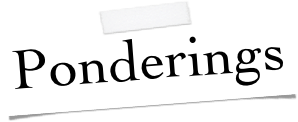
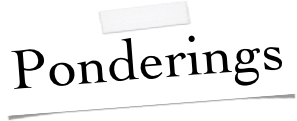
Made Blog Page Wider to accommodate coffee pic
12/1 10:11pm

Changed region(s): [[0.0303, 0.2975, 0.9697, 0.7438], [0.0, 0.7686, 1.0, 0.9917], [0.6364, 0.2975, 0.6667, 0.3719]]

diff --git a/Online/Blog/Blog.html b/Online/Blog/Blog.html
@@ -8,7 +8,7 @@
     <meta name="Generator" content="iWeb 3.0.4" />
     <meta name="iWeb-Build" content="local-build-20151201" />
     <meta http-equiv="X-UA-Compatible" content="IE=EmulateIE7" />
-    <meta name="viewport" content="width=700" />
+    <meta name="viewport" content="width=1318" />
     <title>Ponderings</title>
     <link rel="stylesheet" type="text/css" media="screen,print" href="Blog_files/Blog.css" />
     <!--[if lt IE 8]><link rel='stylesheet' type='text/css' media='screen,print' href='Blog_files/BlogIE.css'/><![endif]-->
@@ -42,15 +42,15 @@ iWebBlogArchivePageTitle = 'Archive';
   </head>
   <body style="background: rgb(0, 0, 0); margin: 0pt; " onload="onPageLoad();" onunload="onPageUnload();">
     <div style="text-align: center; ">
-      <div style="margin-bottom: 0px; margin-left: auto; margin-right: auto; margin-top: 0px; overflow: hidden; position: relative; word-wrap: break-word;  background: rgb(0, 0, 0); text-align: left; width: 700px; " id="body_content">
-        <div style="float: left; margin-left: 0px; position: relative; width: 700px; z-index: 0; " id="nav_layer">
+      <div style="margin-bottom: 0px; margin-left: auto; margin-right: auto; margin-top: 0px; overflow: hidden; position: relative; word-wrap: break-word;  background: rgb(0, 0, 0); text-align: left; width: 1318px; " id="body_content">
+        <div style="float: left; margin-left: 0px; position: relative; width: 1318px; z-index: 0; " id="nav_layer">
           <div style="height: 0px; line-height: 0px; " class="bumper"> </div>
           <div style="clear: both; height: 0px; line-height: 0px; " class="spacer"> </div>
         </div>
-        <div style="float: left; height: 0px; line-height: 0px; margin-left: 0px; position: relative; width: 700px; z-index: 10; " id="header_layer">
+        <div style="float: left; height: 0px; line-height: 0px; margin-left: 0px; position: relative; width: 1318px; z-index: 10; " id="header_layer">
           <div style="height: 0px; line-height: 0px; " class="bumper"> </div>
         </div>
-        <div style="margin-left: 0px; position: relative; width: 700px; z-index: 5; " id="body_layer">
+        <div style="margin-left: 0px; position: relative; width: 1318px; z-index: 5; " id="body_layer">
           <div style="height: 0px; line-height: 0px; " class="bumper"> </div>
           <div style="height: 873px; width: 1318px;  height: 873px; left: -296px; position: absolute; top: 0px; width: 1318px; z-index: 1; " class="tinyText style_SkipStroke stroke_0">
             <img src="Blog_files/stock-photo-64734213.jpg" alt="" style="border: none; height: 874px; width: 1318px; " />
@@ -79,11 +79,11 @@ Blog Summary Widget
             <div style="clear:both"></div>
           </div>
           <script type="text/javascript"><!--//--><![CDATA[//><!--
-new BlogSummaryWidget('widget0', '../Scripts/Widgets/BlogSummary', '../Scripts/Widgets/SharedResources', '..', {"imageVisibility": 1, "excerpt-length": 200, "headerOnTop": true, "htmlTemplate": "<!-- White Blog Main -->\n<!-- 5186946: Set separator height to 1px for IE6 -->\n<div id='$WIDGET_ID-item-template' style='display:none; position: relative'>\n<div id='$WIDGET_ID-image' class='Summary_Image'><a href='$link$'><div id='$WIDGET_ID-image-group' style='position:relative' ><\/div><\/a><\/div>\n<div id='$WIDGET_ID-header'>\n<div id='$WIDGET_ID-title' class='Summary_Title'><a href='$link$'><span class='bl-value-title'><\/span><\/a><\/div>\n<div id='$WIDGET_ID-date' class='Summary_Date'><span class='bl-value-date'><\/span><\/div>\n<\/div>\n<div id='$WIDGET_ID-excerpt' class='Summary_Body'><span class='bl-value-excerpt'><\/span><\/div>\n<div style=\"padding: 5px 0 0 0;\">\n<div id='$WIDGET_ID-link' class='Summary_Read_More'><a href='$link$'>Read more...<\/a>\n<span id='$WIDGET_ID-comment-field' class='comment-field' style='display:none'> | <a href='$comment-link$'><span class='bl-value-comment-count'><\/span><\/a><\/span><\/div><\/div>\n<div style='clear:both'><\/div>\n<\/div>\n<div id='$WIDGET_ID-separator-template' class='Summary_Separator' style='display:none; line-height: 1px'>\n<div style=\"background-color: #333; margin-bottom: 10px; height: 1px;\"> &nbsp; <\/div>\n<\/div>", "imageSizeOverride": 100, "extraSpace": 20, "imagePosition": "Left", "photoProportions": "Landscape", "refetch-rss": 470701919.744435, "imageOutside": false, "sfr-stroke": "new IWEmptyStroke()", "imageSize": 29, "rss-for-archive": false, "upgrades": {"styleThreeWidthScale": true}});
+new BlogSummaryWidget('widget0', '../Scripts/Widgets/BlogSummary', '../Scripts/Widgets/SharedResources', '..', {"imageVisibility": 1, "excerpt-length": 200, "headerOnTop": true, "htmlTemplate": "<!-- White Blog Main -->\n<!-- 5186946: Set separator height to 1px for IE6 -->\n<div id='$WIDGET_ID-item-template' style='display:none; position: relative'>\n<div id='$WIDGET_ID-image' class='Summary_Image'><a href='$link$'><div id='$WIDGET_ID-image-group' style='position:relative' ><\/div><\/a><\/div>\n<div id='$WIDGET_ID-header'>\n<div id='$WIDGET_ID-title' class='Summary_Title'><a href='$link$'><span class='bl-value-title'><\/span><\/a><\/div>\n<div id='$WIDGET_ID-date' class='Summary_Date'><span class='bl-value-date'><\/span><\/div>\n<\/div>\n<div id='$WIDGET_ID-excerpt' class='Summary_Body'><span class='bl-value-excerpt'><\/span><\/div>\n<div style=\"padding: 5px 0 0 0;\">\n<div id='$WIDGET_ID-link' class='Summary_Read_More'><a href='$link$'>Read more...<\/a>\n<span id='$WIDGET_ID-comment-field' class='comment-field' style='display:none'> | <a href='$comment-link$'><span class='bl-value-comment-count'><\/span><\/a><\/span><\/div><\/div>\n<div style='clear:both'><\/div>\n<\/div>\n<div id='$WIDGET_ID-separator-template' class='Summary_Separator' style='display:none; line-height: 1px'>\n<div style=\"background-color: #333; margin-bottom: 10px; height: 1px;\"> &nbsp; <\/div>\n<\/div>", "imageSizeOverride": 100, "extraSpace": 20, "imagePosition": "Left", "photoProportions": "Landscape", "refetch-rss": 470701919.744435, "imageOutside": false, "imageSize": 29, "rss-for-archive": false, "upgrades": {"styleThreeWidthScale": true}});
 //--><!]]></script>
-          <div style="height: 122px; width: 298px;  height: 106px; left: 40px; position: absolute; top: 191px; width: 297px; z-index: 1; " class="tinyText">
+          <div style="height: 121px; width: 297px;  height: 106px; left: 40px; position: absolute; top: 191px; width: 297px; z-index: 1; " class="tinyText">
             <div style="position: relative; width: 297px; ">
-              <img src="Blog_files/shapeimage_1.png" alt="Ponderings" style="height: 122px; left: 0px; margin-left: -1px; margin-top: -10px; position: absolute; top: 0px; width: 298px; " />
+              <img src="Blog_files/shapeimage_1.png" alt="Ponderings" style="height: 121px; left: 0px; margin-top: -10px; position: absolute; top: 0px; width: 297px; " />
             </div>
           </div>
           
@@ -126,7 +126,7 @@ new BlogSummaryWidget('widget0', '../Scripts/Widgets/BlogSummary', '../Scripts/W
           </div>
           <div style="height: 281px; line-height: 281px; " class="spacer"> </div>
         </div>
-        <div style="height: 150px; margin-left: 0px; position: relative; width: 700px; z-index: 15; " id="footer_layer">
+        <div style="height: 150px; margin-left: 0px; position: relative; width: 1318px; z-index: 15; " id="footer_layer">
           <div style="height: 0px; line-height: 0px; " class="bumper"> </div>
         </div>
       </div>
